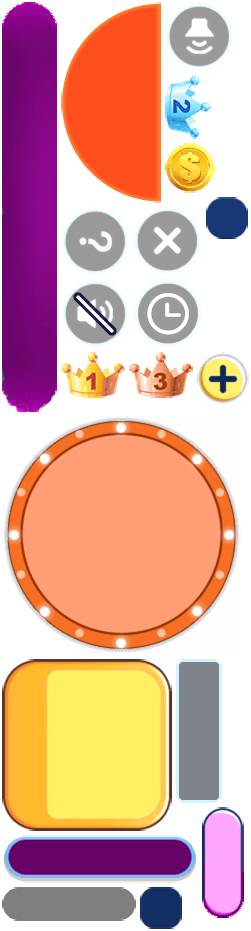
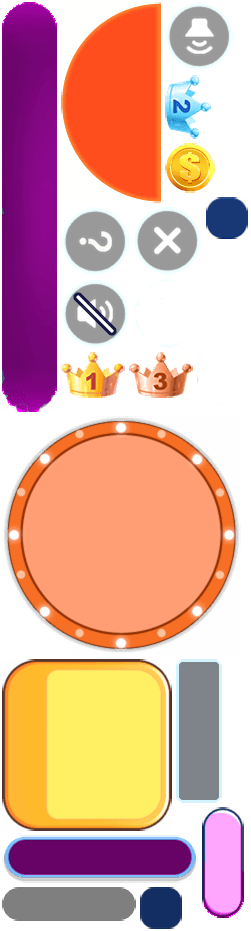
v2.8: Immediate handleGameInit on RTM#1 (no 500ms delay), safety timeout 1s - fix old version error

Changed region(s): [[0.5299, 0.2803, 0.8088, 0.3738], [0.7809, 0.3738, 1.0, 0.4361]]

diff --git a/bridge-inject.js b/bridge-inject.js
@@ -9,7 +9,7 @@
  */
 (function () {
   "use strict";
-  var BRIDGE_VERSION = "v2.7";
+  var BRIDGE_VERSION = "v2.8";
   console.log("%c[BRIDGE] Greedy Niva bridge aktif! " + BRIDGE_VERSION, "color: lime; font-weight: bold; font-size: 14px;");
 
   // ============================================================
@@ -1086,15 +1086,13 @@
         console.log("%c[BRIDGE] Oyun RTMResponseMsg set etti #" + _rtmSetCount + " → RTM hazır!", "color: lime; font-weight: bold;");
 
         if (_rtmSetCount === 1) {
-          // İlk set: handleGameInit başlat (PieSocket, Supabase, vb.)
-          setTimeout(function () {
-            try {
-              if (!_gameInitDone) {
-                console.log("%c[BRIDGE] RTM #1 → 500ms → handleGameInit", "color: orange; font-weight: bold;");
-                handleGameInit();
-              }
-            } catch (e) { console.error("[BRIDGE] RTM timer init hata:", e); }
-          }, 500);
+          // İlk set: handleGameInit HEMEN başlat
+          try {
+            if (!_gameInitDone) {
+              console.log("%c[BRIDGE] RTM #1 → HEMEN handleGameInit", "color: orange; font-weight: bold;");
+              handleGameInit();
+            }
+          } catch (e) { console.error("[BRIDGE] RTM init hata:", e); }
         } else if (_rtmSetCount >= 2 && _lastInitParams) {
           // İkinci+ set: Oyun sahnesi yüklendi, init verilerini TEKRAR gönder
           setTimeout(function () {
@@ -1115,17 +1113,17 @@
     console.error("[BRIDGE] RTMResponseMsg defineProperty hatası:", dpErr);
   }
 
-  // Yöntem 2: 2s güvenlik timeout
+  // Yöntem 2: 1s güvenlik timeout
   setTimeout(function () {
     try {
       if (!_gameInitDone) {
-        console.log("%c[BRIDGE] 2s timeout → handleGameInit zorla tetikleniyor", "color: orange; font-weight: bold;");
+        console.log("%c[BRIDGE] 1s timeout → handleGameInit zorla tetikleniyor", "color: orange; font-weight: bold;");
         handleGameInit();
       } else {
-        console.log("%c[BRIDGE] 2s timeout → zaten init olmuş, skip", "color: gray;");
+        console.log("%c[BRIDGE] 1s timeout → zaten init olmuş, skip", "color: gray;");
       }
-    } catch (e) { console.error("[BRIDGE] 2s timeout init hata:", e); }
-  }, 2000);
+    } catch (e) { console.error("[BRIDGE] 1s timeout init hata:", e); }
+  }, 1000);
 
   // Yöntem 3: 5s mutlak fallback
   setTimeout(function () {
